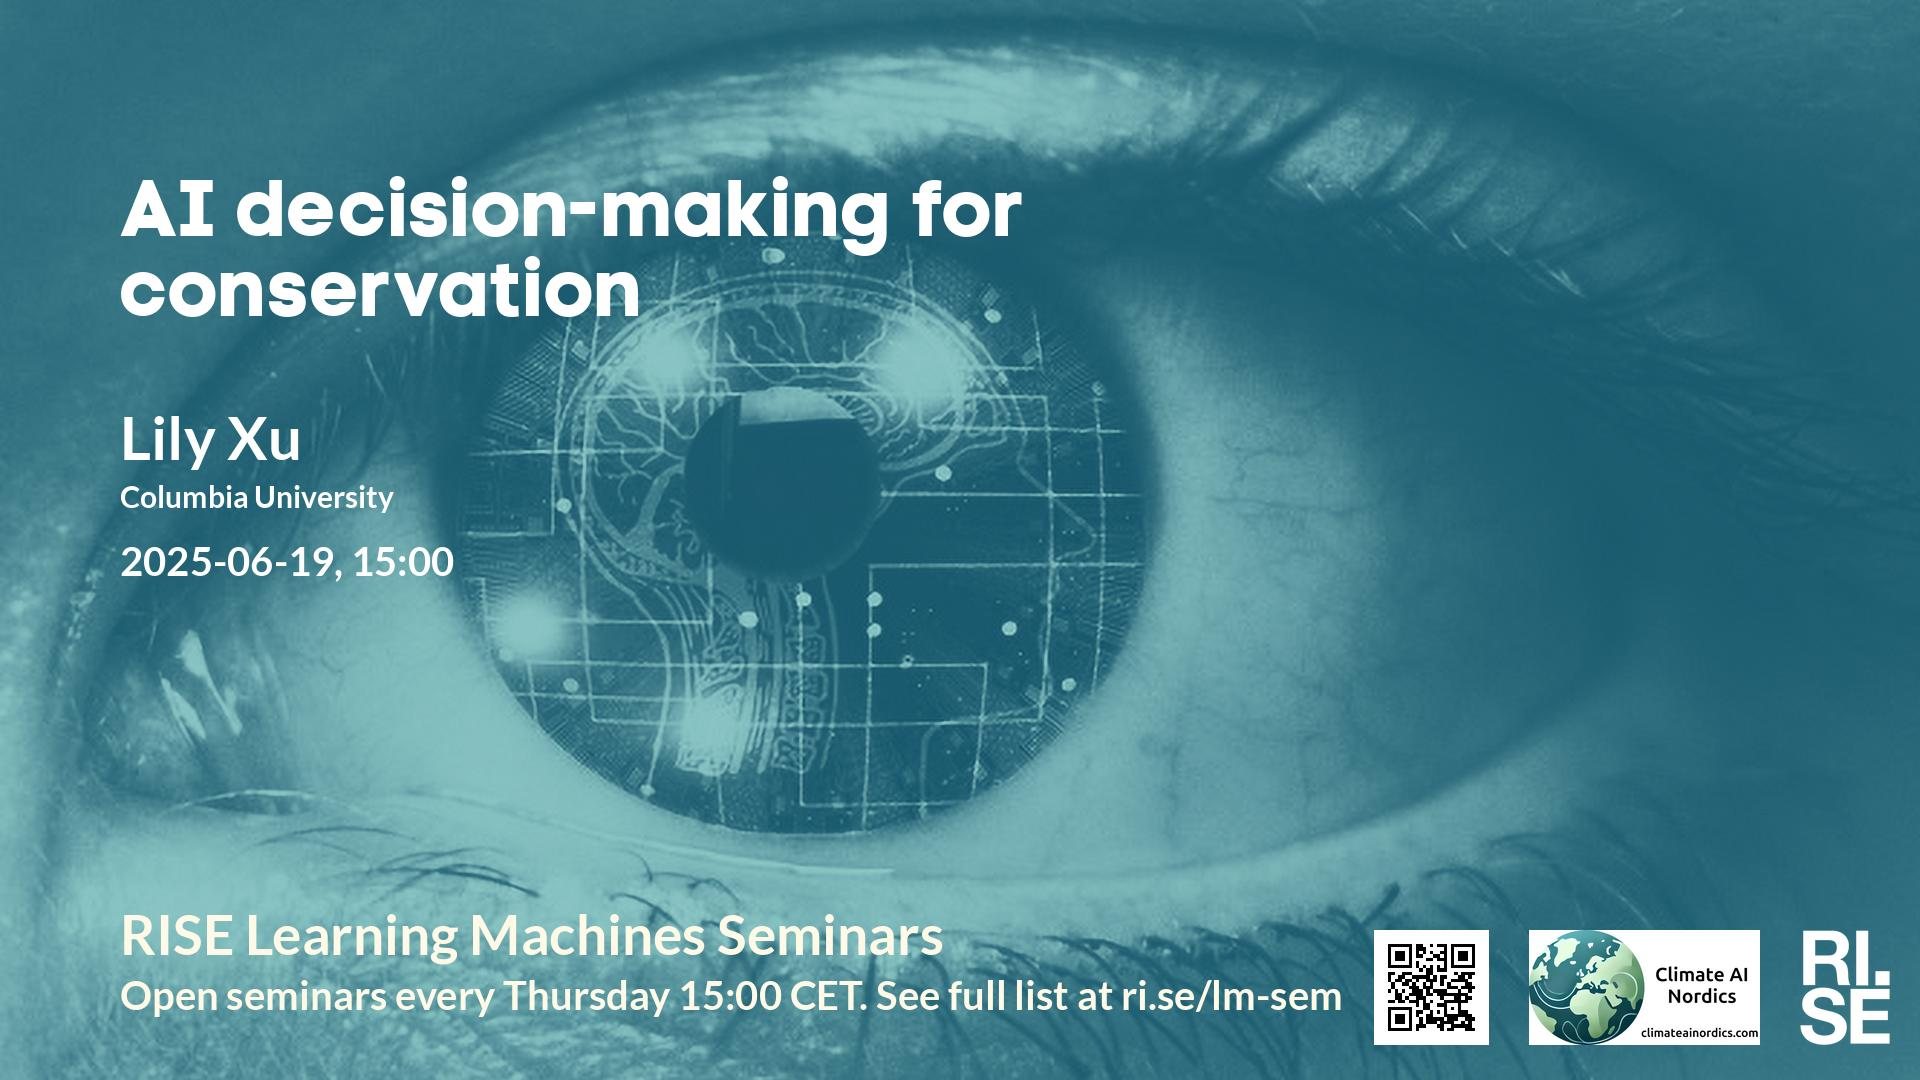
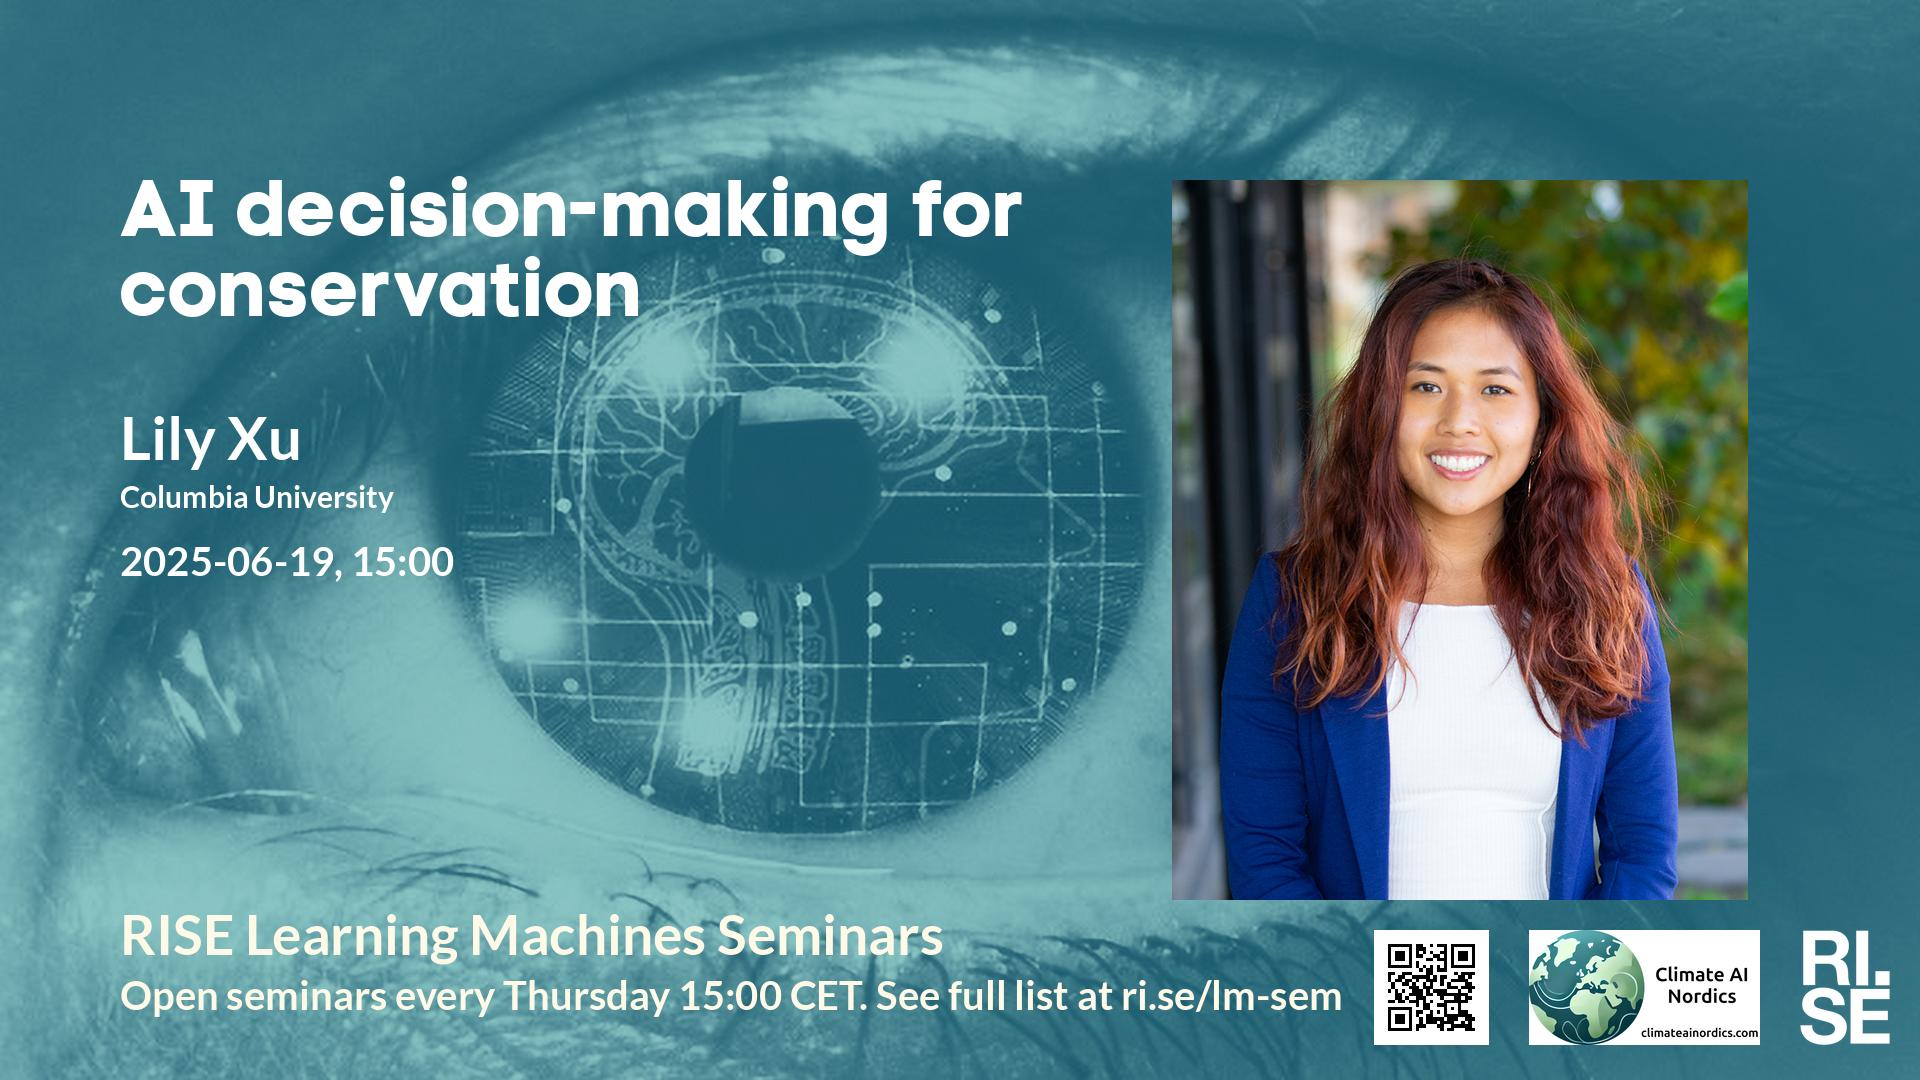
Updated plan on web site.

Changed region(s): [[0.5938, 0.1528, 0.9375, 0.8556]]

diff --git a/lm/2025.md b/lm/2025.md
@@ -31,7 +31,7 @@ table {border-collapse: collapse;}
 | <span style="color:red"> 2025-05-29 </span> | <span style="color:red"> Ascension Day  </span> | <span style="color:red">  </span> | <span style="color:red">  </span> | <span style="color:red">  </span> | <span style="color:red">  </span> | <span style="color:red"> CANCELLED </span> |
 | <span style="color:red"> 2025-06-05 </span> | <span style="color:red"> No Seminar </span> | <span style="color:red">  </span> | <span style="color:red">  </span> | <span style="color:red">  </span> | <span style="color:red">  </span> | <span style="color:red"> CANCELLED </span> |
 | <span style="color:grey"> 2025-06-12 </span> | <span style="color:grey"> Markus P. ? </span> | <span style="color:grey">  </span> | <span style="color:grey">  </span> | <span style="color:grey">  </span> | <span style="color:grey">  </span> | <span style="color:grey"> S~~TABP~~ </span> |
-|  2025-06-19  |  [Lily Xu, Columbia University](2025-06-19.md)  |    |  [social media ](2025-06-19-social-media-lily-xu.jpg)  |  [meeting backdrop ](2025-06-19-meeting-backdrop-lily-xu.jpg)  |  [youtube thumbnail ](2025-06-19-youtube-thumbnail-lily-xu.jpg)  |  STAB~~P~~  |
+|  2025-06-19  |  [Lily Xu, Columbia University](2025-06-19.md)  |  [photo](2025-06-19-photo-lily-xu.jpg)  |  [social media ](2025-06-19-social-media-lily-xu.jpg)  |  [meeting backdrop ](2025-06-19-meeting-backdrop-lily-xu.jpg)  |  [youtube thumbnail ](2025-06-19-youtube-thumbnail-lily-xu.jpg)  |  STABP  |
 | <span style="color:purple"> 2025-08-28 </span> | <span style="color:purple"> *Up for grabs!!!* </span> | <span style="color:purple">  </span> | <span style="color:purple">  </span> | <span style="color:purple">  </span> | <span style="color:purple">  </span> | <span style="color:purple"> ~~STABP~~ </span> |
 | <span style="color:grey"> 2025-09-11 </span> | <span style="color:grey"> Natalie E. ? </span> | <span style="color:grey">  </span> | <span style="color:grey">  </span> | <span style="color:grey">  </span> | <span style="color:grey">  </span> | <span style="color:grey"> S~~TABP~~ </span> |
 |  2025-09-25  |  [Sigrid Passano Hellan, NORCE Norwegian Research Centre](2025-09-25.md)  |    |  [social media ](2025-09-25-social-media-sigrid-passano-hellan.jpg)  |  [meeting backdrop ](2025-09-25-meeting-backdrop-sigrid-passano-hellan.jpg)  |  [youtube thumbnail ](2025-09-25-youtube-thumbnail-sigrid-passano-hellan.jpg)  |  S~~TA~~B~~P~~  |

diff --git a/lm/index.md b/lm/index.md
@@ -31,7 +31,7 @@ table {border-collapse: collapse;}
 | <span style="color:red"> 2025-05-29 </span> | <span style="color:red"> Ascension Day  </span> | <span style="color:red">  </span> | <span style="color:red">  </span> | <span style="color:red">  </span> | <span style="color:red">  </span> | <span style="color:red"> CANCELLED </span> |
 | <span style="color:red"> 2025-06-05 </span> | <span style="color:red"> No Seminar </span> | <span style="color:red">  </span> | <span style="color:red">  </span> | <span style="color:red">  </span> | <span style="color:red">  </span> | <span style="color:red"> CANCELLED </span> |
 | <span style="color:grey"> 2025-06-12 </span> | <span style="color:grey"> Markus P. ? </span> | <span style="color:grey">  </span> | <span style="color:grey">  </span> | <span style="color:grey">  </span> | <span style="color:grey">  </span> | <span style="color:grey"> S~~TABP~~ </span> |
-|  2025-06-19  |  [Lily Xu, Columbia University](2025-06-19.md)  |    |  [social media ](2025-06-19-social-media-lily-xu.jpg)  |  [meeting backdrop ](2025-06-19-meeting-backdrop-lily-xu.jpg)  |  [youtube thumbnail ](2025-06-19-youtube-thumbnail-lily-xu.jpg)  |  STAB~~P~~  |
+|  2025-06-19  |  [Lily Xu, Columbia University](2025-06-19.md)  |  [photo](2025-06-19-photo-lily-xu.jpg)  |  [social media ](2025-06-19-social-media-lily-xu.jpg)  |  [meeting backdrop ](2025-06-19-meeting-backdrop-lily-xu.jpg)  |  [youtube thumbnail ](2025-06-19-youtube-thumbnail-lily-xu.jpg)  |  STABP  |
 | <span style="color:purple"> 2025-08-28 </span> | <span style="color:purple"> *Up for grabs!!!* </span> | <span style="color:purple">  </span> | <span style="color:purple">  </span> | <span style="color:purple">  </span> | <span style="color:purple">  </span> | <span style="color:purple"> ~~STABP~~ </span> |
 | <span style="color:grey"> 2025-09-11 </span> | <span style="color:grey"> Natalie E. ? </span> | <span style="color:grey">  </span> | <span style="color:grey">  </span> | <span style="color:grey">  </span> | <span style="color:grey">  </span> | <span style="color:grey"> S~~TABP~~ </span> |
 |  2025-09-25  |  [Sigrid Passano Hellan, NORCE Norwegian Research Centre](2025-09-25.md)  |    |  [social media ](2025-09-25-social-media-sigrid-passano-hellan.jpg)  |  [meeting backdrop ](2025-09-25-meeting-backdrop-sigrid-passano-hellan.jpg)  |  [youtube thumbnail ](2025-09-25-youtube-thumbnail-sigrid-passano-hellan.jpg)  |  S~~TA~~B~~P~~  |
